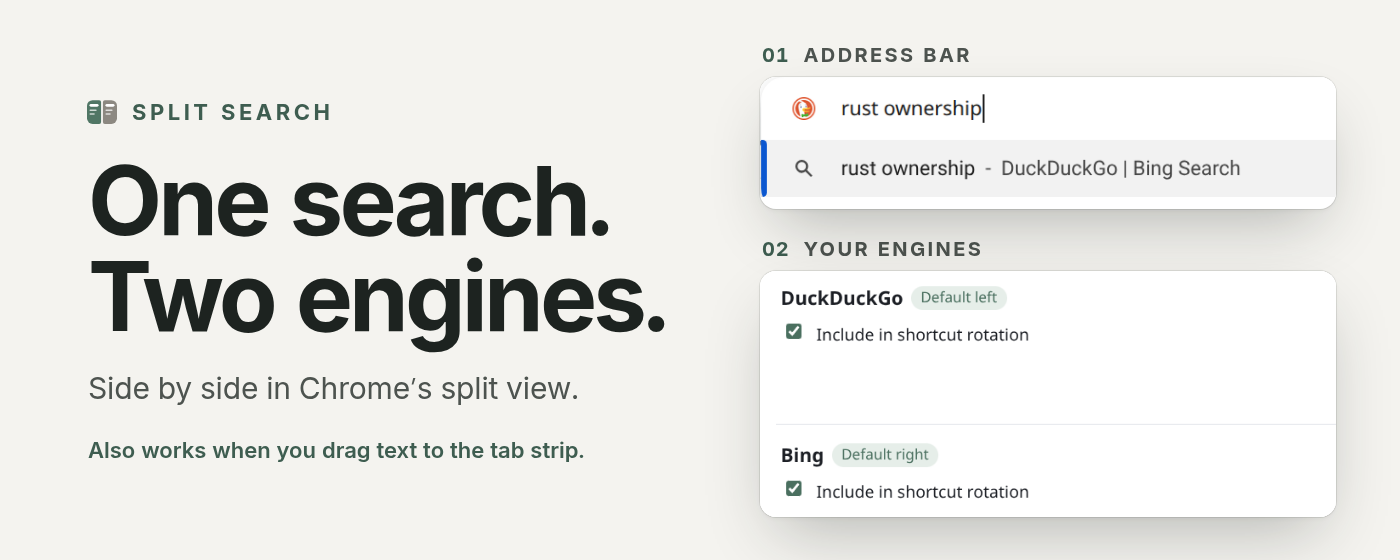
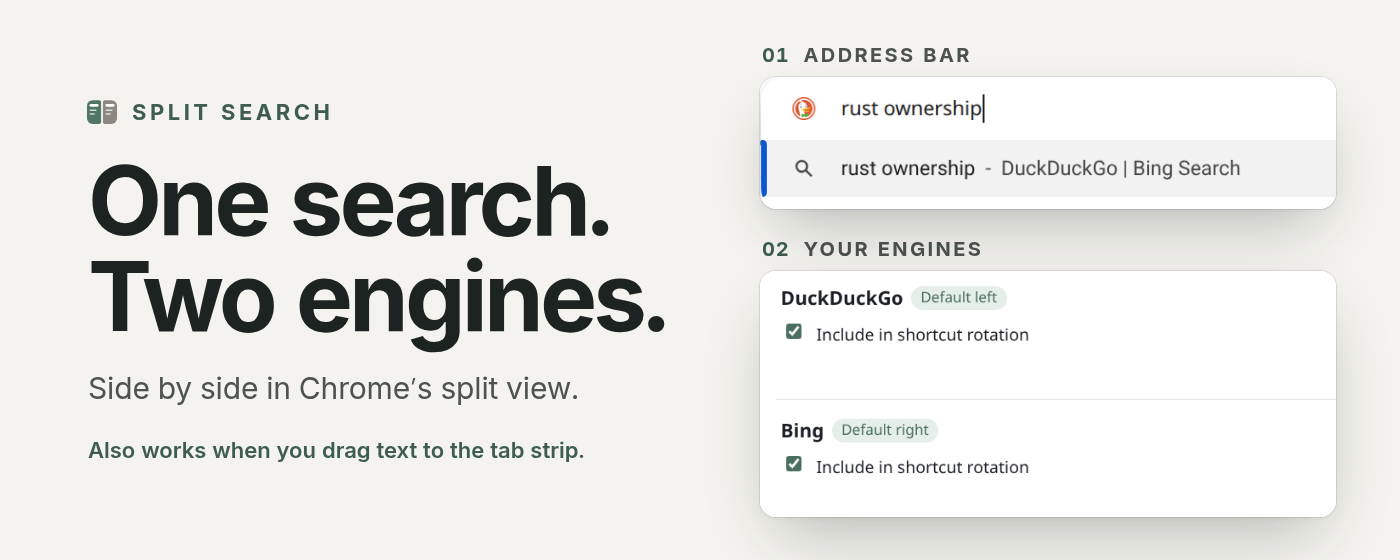
chore(assets): re-shoot the en settings screenshots after the reason fix
The in-pair reason now takes one line, so the engine rows in store
screenshot 4 and the marquee lose a line of blank space.

Claude-Session: https://claude.ai/code/session_01QAFczmx2FRoPgu46A1z6D9

Changed region(s): [[0.5529, 0.7286, 0.7371, 0.9107]]

diff --git a/assets/raw/captions.md b/assets/raw/captions.md
@@ -73,8 +73,8 @@ convert drag-to-tabstrip.png \
 | 文件 | 内容 |
 |---|---|
 | `en/options-top.png` | 设置页首屏（英文界面，2026-10-26 重拍，见下文“设置页三张的重拍”）：标题、语言下拉框、“Get started”卡（第 1 步“DuckDuckGo: access granted”，第 2 步里的触发网址 `https://duckduckgo.com/?q=%s&_ss=ddg,bing`，第 3 步“Try it”）、“Default pair”卡开头的左右两个窗格 |
-| `en/options-engines.png` | 设置页滚动到“Search engines”卡片，卡片上缘在视口顶下 8 CSS 像素（原图 y≈143）；五个引擎都是“Access granted”，DuckDuckGo、Bing 带“Default left/Default right”和“默认组合在用，不能隐藏”的说明（2026-10-26 重拍） |
-| `en/options-fullpage.png` | 设置页整页（CDP `Page.captureScreenshot`），2376×4709（2026-10-26 重拍） |
+| `en/options-engines.png` | 设置页滚动到“Search engines”卡片，卡片上缘在视口顶下 8 CSS 像素（原图 y≈143）；五个引擎都是“Access granted”，DuckDuckGo、Bing 带“Default left/Default right”和“默认组合在用，不能隐藏”的说明，说明只占一行（2026-10-26 第二次重拍） |
+| `en/options-fullpage.png` | 设置页整页（CDP `Page.captureScreenshot`），2376×4652（2026-10-26 第二次重拍） |
 | `en/split-ddg-bing-rust.png` | 新标签打开触发网址 `https://duckduckgo.com/?q=rust+programming&_ss=ddg,bing`，扩展建成 DuckDuckGo ｜ Bing 拆分视图；标签栏里是“Split Search settings”和两个分屏标签 |
 | `en/drag-to-tabstrip.png` | 英文维基百科“Rust (programming language)”，在正文“Software developer Graydon Hoare created Rust…”里选中“Graydon Hoare”（不是链接），用 xdotool 真实按下拖到标签栏空白处（落点 1460,30），没松手时截图。第一个标签旁同样有 Xvfb 下的黑底插入箭头（397,61），商店截图 3（v2）的裁切包含它，用 `en/patches/` 的修补图盖掉（见“修补”） |
 | `en/drag-result-split.png` | 松手后：默认搜索引擎（触发网址）打开新标签，扩展建成 DuckDuckGo ｜ Bing 拆分视图，查询词“Graydon Hoare” |
@@ -94,5 +94,7 @@ convert drag-to-tabstrip.png \
 - `storage.sync` 写成 `uiLocale: "en"`、默认组合 DuckDuckGo ｜ Bing、引擎排序 DuckDuckGo、Bing、Google、Kagi、Perplexity；`storage.local` 没有 `setupDone`，所以“开始使用”卡显示三步。
 - 授权：在设置页里一次申请五个预置引擎的网站，Chrome 弹出授权框后用 xdotool 按 Tab、回车点“允许”（和用户点击效果相同）。所以第 1 步显示“已授权”，引擎列表全部“Access granted”。
 - 模板裁切随之改了：商店截图 4 是 `648,308,1120,600`，顶部宣传图是 `640,310,678,290`（见 `assets/templates-v2/README.md`）。
+
+第二次重拍（同一天，整体审查后的修正）：“不能隐藏”的说明放宽到一行（`options.css` 的 `.row-reason` 改为 `max-width: 56ch`），引擎卡片和整页随之变矮，所以重拍了这三张。用同一个脚本、同一套环境和状态（私有 Xvfb :131、全新临时配置、五个预置引擎在授权框里点“允许”、没有 `setupDone`），扩展是修正后的工作区。设置页的静态 HTML 这时已改成 `lang="en"`，不会再弹翻译气泡；关掉翻译的参数和 Preferences 仍然照旧加着。`options-top.png` 与上一版只差右边滚动条滑块（页面变矮了），画面内容相同；`options-engines.png` 里 DuckDuckGo、Bing 两行各矮了一行。重新渲染后只有商店截图 4 和顶部宣传图变了；商店截图 4 的裁切只到引擎行的左半边，说明文字在右半边、不在画面里，所以这两行的复选框下面仍有一行高的空白（比上一版少一行）。
 
 每张都逐一看过：没有中文、没有账号头像（右上角是未登录的默认图标）、没有 Kagi 或其他网站的令牌、IP 和浏览历史。网页内容是网站当时实际返回的结果，没有改过。
